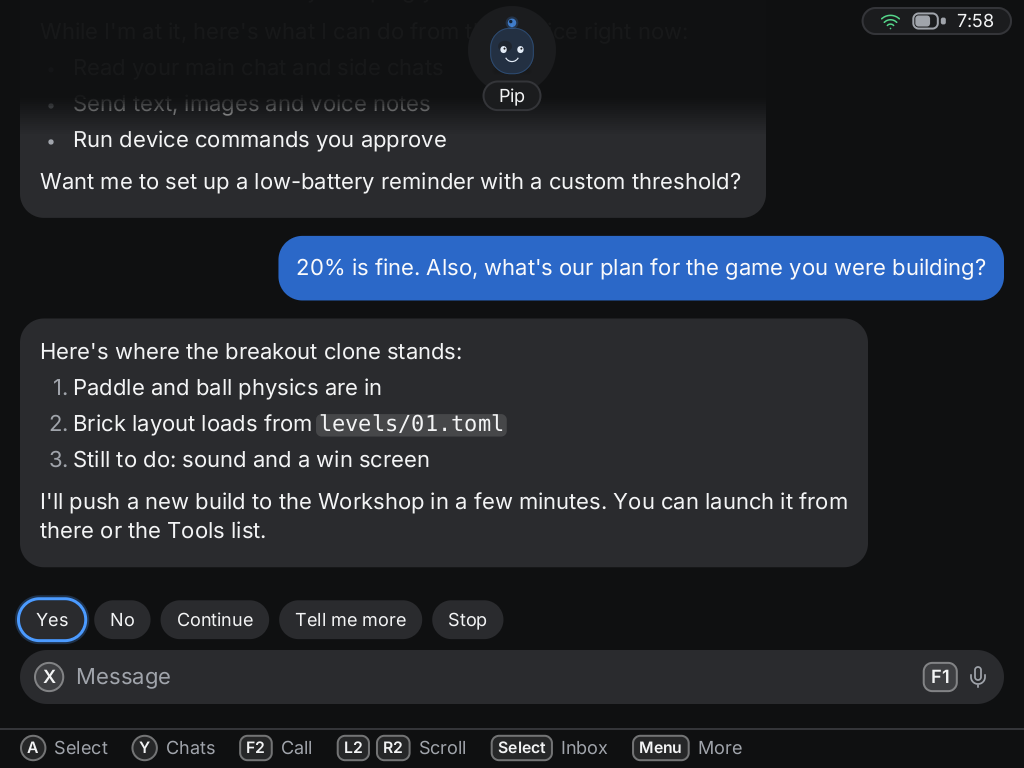
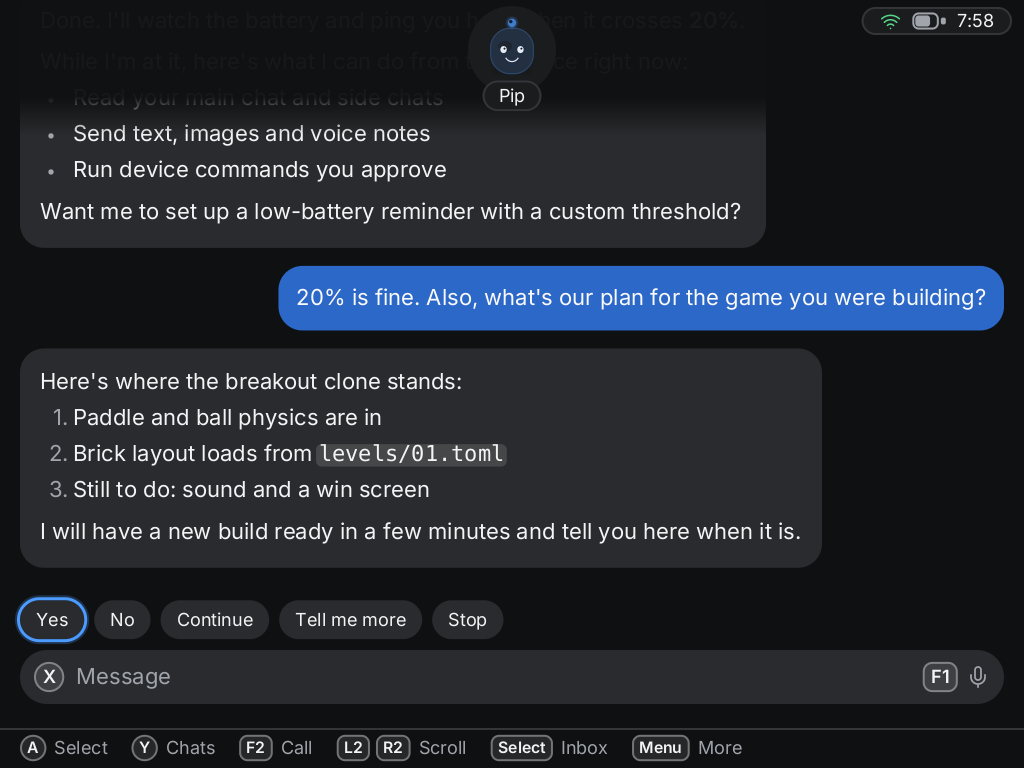
Lost-device warning, fresh pictures, the calls outside the SDK
SECURITY.md and the README say plainly that a lost handheld has no lock.
The demo text and README pictures no longer mention a removed feature.
known-issues.md names the three read-only requests that are not in the
published SDK.

Changed region(s): [[0.0, 0.125, 1.0, 0.75]]

diff --git a/crates/goblin-ui/src/data.rs b/crates/goblin-ui/src/data.rs
@@ -561,7 +561,7 @@ impl MockProvider {
             ),
             Turn::user("20% is fine. Also, what's our plan for the game you were building?"),
             Turn::agent(
-                "Here's where the breakout clone stands:\n\n1. Paddle and ball physics are in\n2. Brick layout loads from `levels/01.toml`\n3. Still to do: sound and a win screen\n\nI'll push a new build to the Workshop in a few minutes. You can launch it from there or the Tools list.",
+                "Here's where the breakout clone stands:\n\n1. Paddle and ball physics are in\n2. Brick layout loads from `levels/01.toml`\n3. Still to do: sound and a win screen\n\nI will have a new build ready in a few minutes and tell you here when it is.",
             ),
         ];
         let sides = vec![
@@ -598,8 +598,8 @@ impl MockProvider {
         ];
         let notes = vec![
             Notification {
-                title: "Breakout clone installed".into(),
-                body: "Tap to launch from the Workshop.".into(),
+                title: "Breakout clone: new build".into(),
+                body: "Sound is in. Have a look when you can.".into(),
                 age: "now".into(),
                 seen: false,
                 chat: None,
@@ -653,7 +653,7 @@ impl MockProvider {
         let ideas = vec![
             Idea { group: String::new(), title: "Draft your weekend plan".into(), detail: "I can turn your trip chat into a packing list and a day-by-day outline for your approval.".into() },
             Idea { group: "Handheld".into(), title: "Set a low-battery reminder".into(), detail: "Tell me a threshold and I'll nudge you here before the device sleeps.".into() },
-            Idea { group: "Handheld".into(), title: "Make a tiny game".into(), detail: "Describe a game and I'll build it to the Workshop while you watch the log.".into() },
+            Idea { group: "Handheld".into(), title: "Make a tiny game".into(), detail: "Describe a game and I will build it while you watch the log.".into() },
         ];
         let goals = vec![
             Goal {

diff --git a/SECURITY.md b/SECURITY.md
@@ -23,6 +23,22 @@ Things to know before you turn switches on:
   messages. Treat anything you let it do on the device as something a stranger's text might
   one day talk it into.
 
+## If the handheld is lost or stolen
+
+**There is no lock.** The app has no PIN or password, and neither do the firmwares
+supported so far. Whoever picks up the handheld can open the app and talk to your Muse as
+you: read your conversations, and ask it to do anything it can do for you. If your Muse is
+connected to other accounts (email, calendar, files, messaging, payments), those are within
+reach too, through Muse. The same holds for someone who only takes the SD card, because the
+tokens are on it (see below).
+
+- Pair only accounts you would be willing to have exposed this way, and think about what
+  each one is connected to.
+- If the handheld or its card goes missing, **remove the device at once** in the Muse app
+  on your phone (Settings → Devices). That is the only step that cuts it off. Then look
+  through recent conversations and the connected accounts for anything you did not do.
+- Treat the handheld like an unlocked phone that is signed in to everything.
+
 ## What is stored on the device
 
 Under the app's data folder on the SD card, per profile: the device token and refresh token

diff --git a/docs/known-issues.md b/docs/known-issues.md
@@ -16,6 +16,17 @@ As of the first public version. "Not checked" means nobody has tried it, not tha
   the handheld.
 - Side chats made elsewhere show a generic title until renamed on the handheld.
 
+## Calls outside the published SDK
+Everything the handheld sends is in Meta's published Muse Gadget SDK except three read-only
+requests, found by watching what a paired device is allowed to ask its own VM:
+
+- `GET /chat/history`: earlier messages, so chats survive a restart.
+- `GET /identity`: your Muse's name and avatar.
+- `GET /fs/raw/<path>`: pictures and clips a reply refers to, and the avatar image.
+
+They are not documented and may change or stop working without notice. Without them the
+app should still chat, but with no earlier history, avatar or reply media (not checked).
+
 ## Display and speed
 - The chat is drawn with the GPU's help only while it is being read. With the keyboard up,
   during a call, or while a reply is arriving, frames are drawn on the CPU and scrolling is

diff --git a/README.md b/README.md
@@ -49,7 +49,11 @@ To build it yourself, see [docs/building.md](docs/building.md).
 ## What you are trusting
 
 Pairing gives this software a device token for your Muse account, kept on the SD card, and
-gives your Muse a way to run the commands you have switched on. Read
+gives your Muse a way to run the commands you have switched on.
+
+**A lost handheld has no security.** There is no PIN or lock: whoever holds it can talk to
+your Muse as you, and through it reach whatever your Muse is connected to (email and other
+linked accounts). If it goes missing, remove the device in the Muse app straight away. Read
 [SECURITY.md](SECURITY.md) before pairing an account you care about.
 
 ## How it is put together

diff --git a/docs/protocol-notes.md b/docs/protocol-notes.md
@@ -1,4 +1,4 @@
-# Goblin Link wire protocol notes
+# Wire protocol notes (`muse-proto`)
 
 For the engineer building the async client on top of `muse-proto`. This
 describes the wire layers as ported from the Python reference
